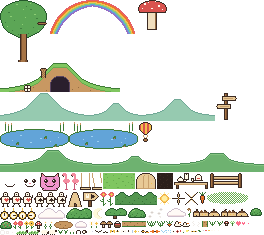
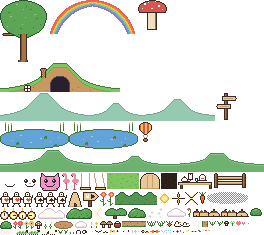
Oak: the branch inside the crown is gone, a branch under the leaves carries the swing, and the swung frame keeps both ropes and its seat

diff --git a/extension/src/newtab/scene.ts b/extension/src/newtab/scene.ts
@@ -900,8 +900,9 @@ export function startScene(canvas: HTMLCanvasElement, opts: SceneOptions): Scene
       draw("oak", ox, oy);
       hit("oak", 0, ox, oy, 47, 40);
       const swingFast = pressed?.hit?.kind === "swing";
-      draw("swing", ox + 6, oy + 36, live ? Math.floor(t / (swingFast ? 250 : 900)) % 2 : 0);
-      hit("swing", 0, ox + 6, oy + 36, 11, 17);
+      // The swing hangs from the branch on the left; its cell is 13 wide so the swung frame keeps both ropes.
+      draw("swing", ox + 3, oy + 36, live ? Math.floor(t / (swingFast ? 250 : 900)) % 2 : 0);
+      hit("swing", 0, ox + 3, oy + 36, 13, 17);
       const cf = cheshireFrame(now);
       if (cf >= 0) draw("cheshire", ox + 22, oy + 4, cf);
     }

diff --git a/tools/sprites/scene_px.py b/tools/sprites/scene_px.py
@@ -834,6 +834,8 @@ def oak():
     crown = oval(OAK_HW, "b", "v")
     w = len(crown[0])
     g = grid(w, 62)
+    # The swing's branch, laid first so the crown covers its inner end and it comes out from under the leaves.
+    stamp(g, [".ooooooooooooo.", "oPppppppppppppo", ".ooooooooooooo."], 2, 33)
     stamp(g, rows_of(crown), 0, 0)
     for x, y in OAK_DARK:
         if g[y][x] == "b":
@@ -841,56 +843,51 @@ def oak():
     for x, y in OAK_LIGHT:
         if g[y][x] == "b":
             g[y][x] = "h"
-    # Trunk under the crown, roots at the foot, a branch out to the right for the cat.
+    # Trunk under the crown and roots at the foot.
     cx = w // 2
     for y in range(34, 61):
         stamp(g, ["oPppppo"], cx - 3, y)
     stamp(g, ["oPPppppPPo"], cx - 5, 60)
     stamp(g, ["oPPppppPPo"], cx - 5, 61)
-    stamp(g, [".oooooooo", "oPpppppppo", ".oooooooo"], w - 10, 22)
-    for y in (22, 23, 24):
-        for x in range(w - 10, w):
-            if g[y][x] == ".":
-                pass
     return rows_of(g)
 
 
 SWING = [[
-    ".x.......x.",
-    ".x.......x.",
-    ".x.......x.",
-    ".x.......x.",
-    ".x.......x.",
-    ".x.......x.",
-    ".x.......x.",
-    ".x.......x.",
-    ".x.......x.",
-    ".x.......x.",
-    ".x.......x.",
-    ".x.......x.",
-    ".x.......x.",
-    ".x.......x.",
-    "ooooooooooo",
-    "oWWWWWWWWWo",
-    "ooooooooooo",
+    ".x.......x...",
+    ".x.......x...",
+    ".x.......x...",
+    ".x.......x...",
+    ".x.......x...",
+    ".x.......x...",
+    ".x.......x...",
+    ".x.......x...",
+    ".x.......x...",
+    ".x.......x...",
+    ".x.......x...",
+    ".x.......x...",
+    ".x.......x...",
+    ".x.......x...",
+    "ooooooooooo..",
+    "oWWWWWWWWWo..",
+    "ooooooooooo..",
 ], [
-    ".x.......x.",
-    ".x.......x.",
-    ".x.......x.",
-    ".x.......x.",
-    ".x.......x.",
-    "..x.......x",
-    "..x.......x",
-    "..x.......x",
-    "..x.......x",
-    "..x.......x",
-    "...x.......",
-    "...x.......",
-    "...x.......",
-    "...x.......",
-    ".ooooooooooo"[:11],
-    ".oWWWWWWWWWo"[:11],
-    ".ooooooooooo"[:11],
+    ".x.......x...",
+    ".x.......x...",
+    ".x.......x...",
+    ".x.......x...",
+    ".x.......x...",
+    "..x.......x..",
+    "..x.......x..",
+    "..x.......x..",
+    "..x.......x..",
+    "..x.......x..",
+    "...x.......x.",
+    "...x.......x.",
+    "...x.......x.",
+    "...x.......x.",
+    "..ooooooooooo",
+    "..oWWWWWWWWWo",
+    "..ooooooooooo",
 ]]
 CHESHIRE = [[
     # Just the smile, hanging in the leaves.
